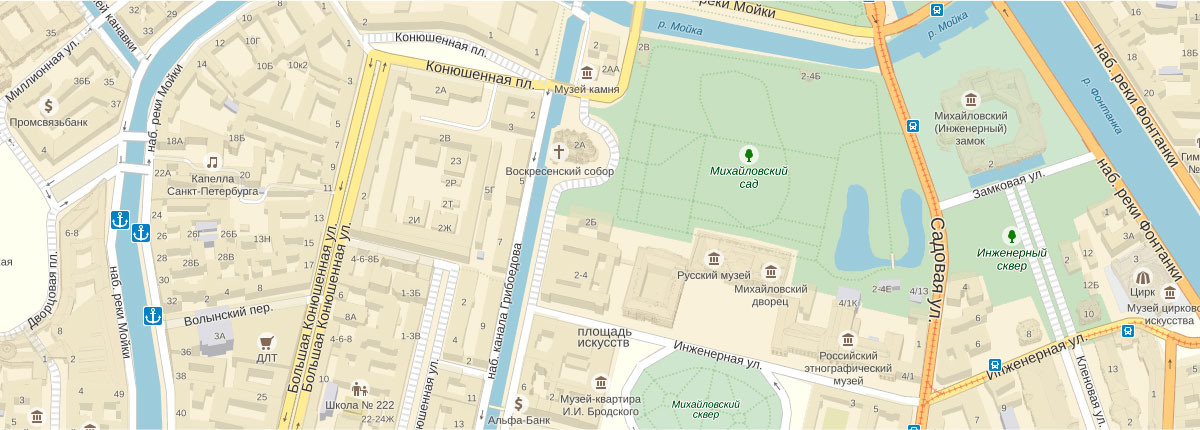
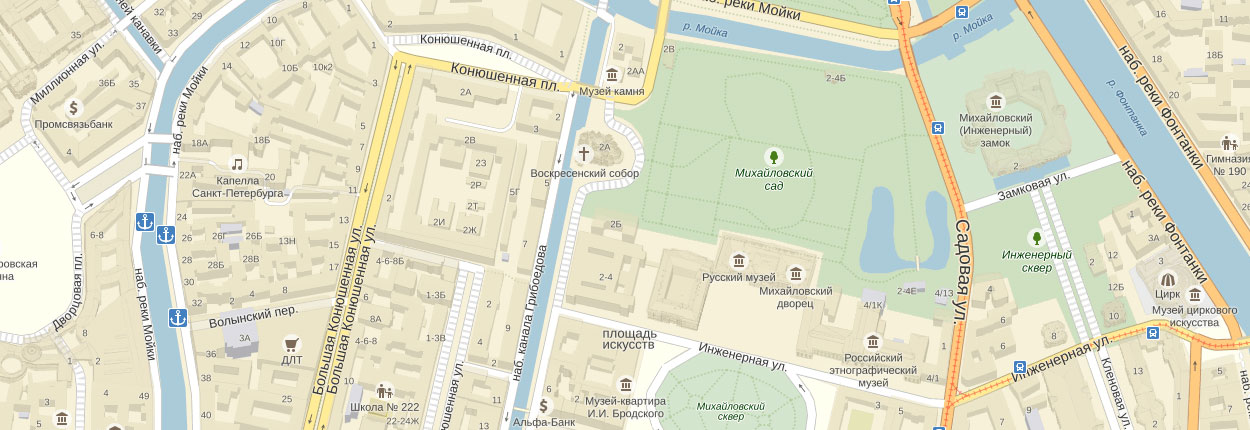
Блок карты вынесен за контейнер
+ перезалито изображение карты

diff --git a/index.html b/index.html
@@ -162,30 +162,29 @@
           </div>
         </div>
       </section>
-      <section class="map-and-contacts clearfix">
-        <div class="map">
-          <img src="img/map.jpg" width="1200" height="430" alt="map">
-          <div class="contacts">
-            <p>Адрес главного офиса и офлайн магазина:</p>
-            <p>ул. Большая Конюшенная 19/8, Санкт-Петербург</p>
-            <p>Для заказов по телефону:</p>
-            <p>8 812 450-25-25 (с 10 до 20 ежедневно)</p>
-            <div class="contacts-btn">
-              <a class="btn" href="#">Форма обратной связи</a>
-            </div>
-          </div>
-          <div class="feedback">
-            <h2>Мы обязательно вам ответим!</h2>
-            <form action="" class="feedback-form" method="post">
-                <input type="text" name="fullname" value="" placeholder="Как вас зовут?">
-                <input type="email" name="feedback-email" value="" placeholder="Ваша почта для ответа?">
-                <textarea name="message" placeholder="Напишите что-нибудь..."></textarea>
-                <button class="feedback-btn" type="button">Отправить</button>
-            </form>
+    </main>
+    <section class="map-and-contacts clearfix">
+      <div class="map">
+        <img src="img/map.jpg" width="1250" height="430" alt="map">
+        <div class="contacts">
+          <p>Адрес главного офиса и офлайн магазина:</p>        <p>ул. Большая Конюшенная 19/8, Санкт-Петербург</p>
+          <p>Для заказов по телефону:</p>
+          <p>8 812 450-25-25 (с 10 до 20 ежедневно)</p>
+          <div class="contacts-btn">
+            <a class="btn" href="#">Форма обратной связи</a>
           </div>
         </div>
-      </section>
-    </main>
+        <div class="feedback">
+          <h2>Мы обязательно вам ответим!</h2>
+          <form action="" class="feedback-form" method="post">
+              <input type="text" name="fullname" value="" placeholder="Как вас зовут?">
+              <input type="email" name="feedback-email" value="" placeholder="Ваша почта для ответа?">
+              <textarea name="message" placeholder="Напишите что-нибудь..."></textarea>
+              <button class="feedback-btn" type="button">Отправить</button>
+          </form>
+        </div>
+      </div>
+    </section>
     <footer class="main-footer">
       <div class="container clearfix">
         <div class="footer-social">
